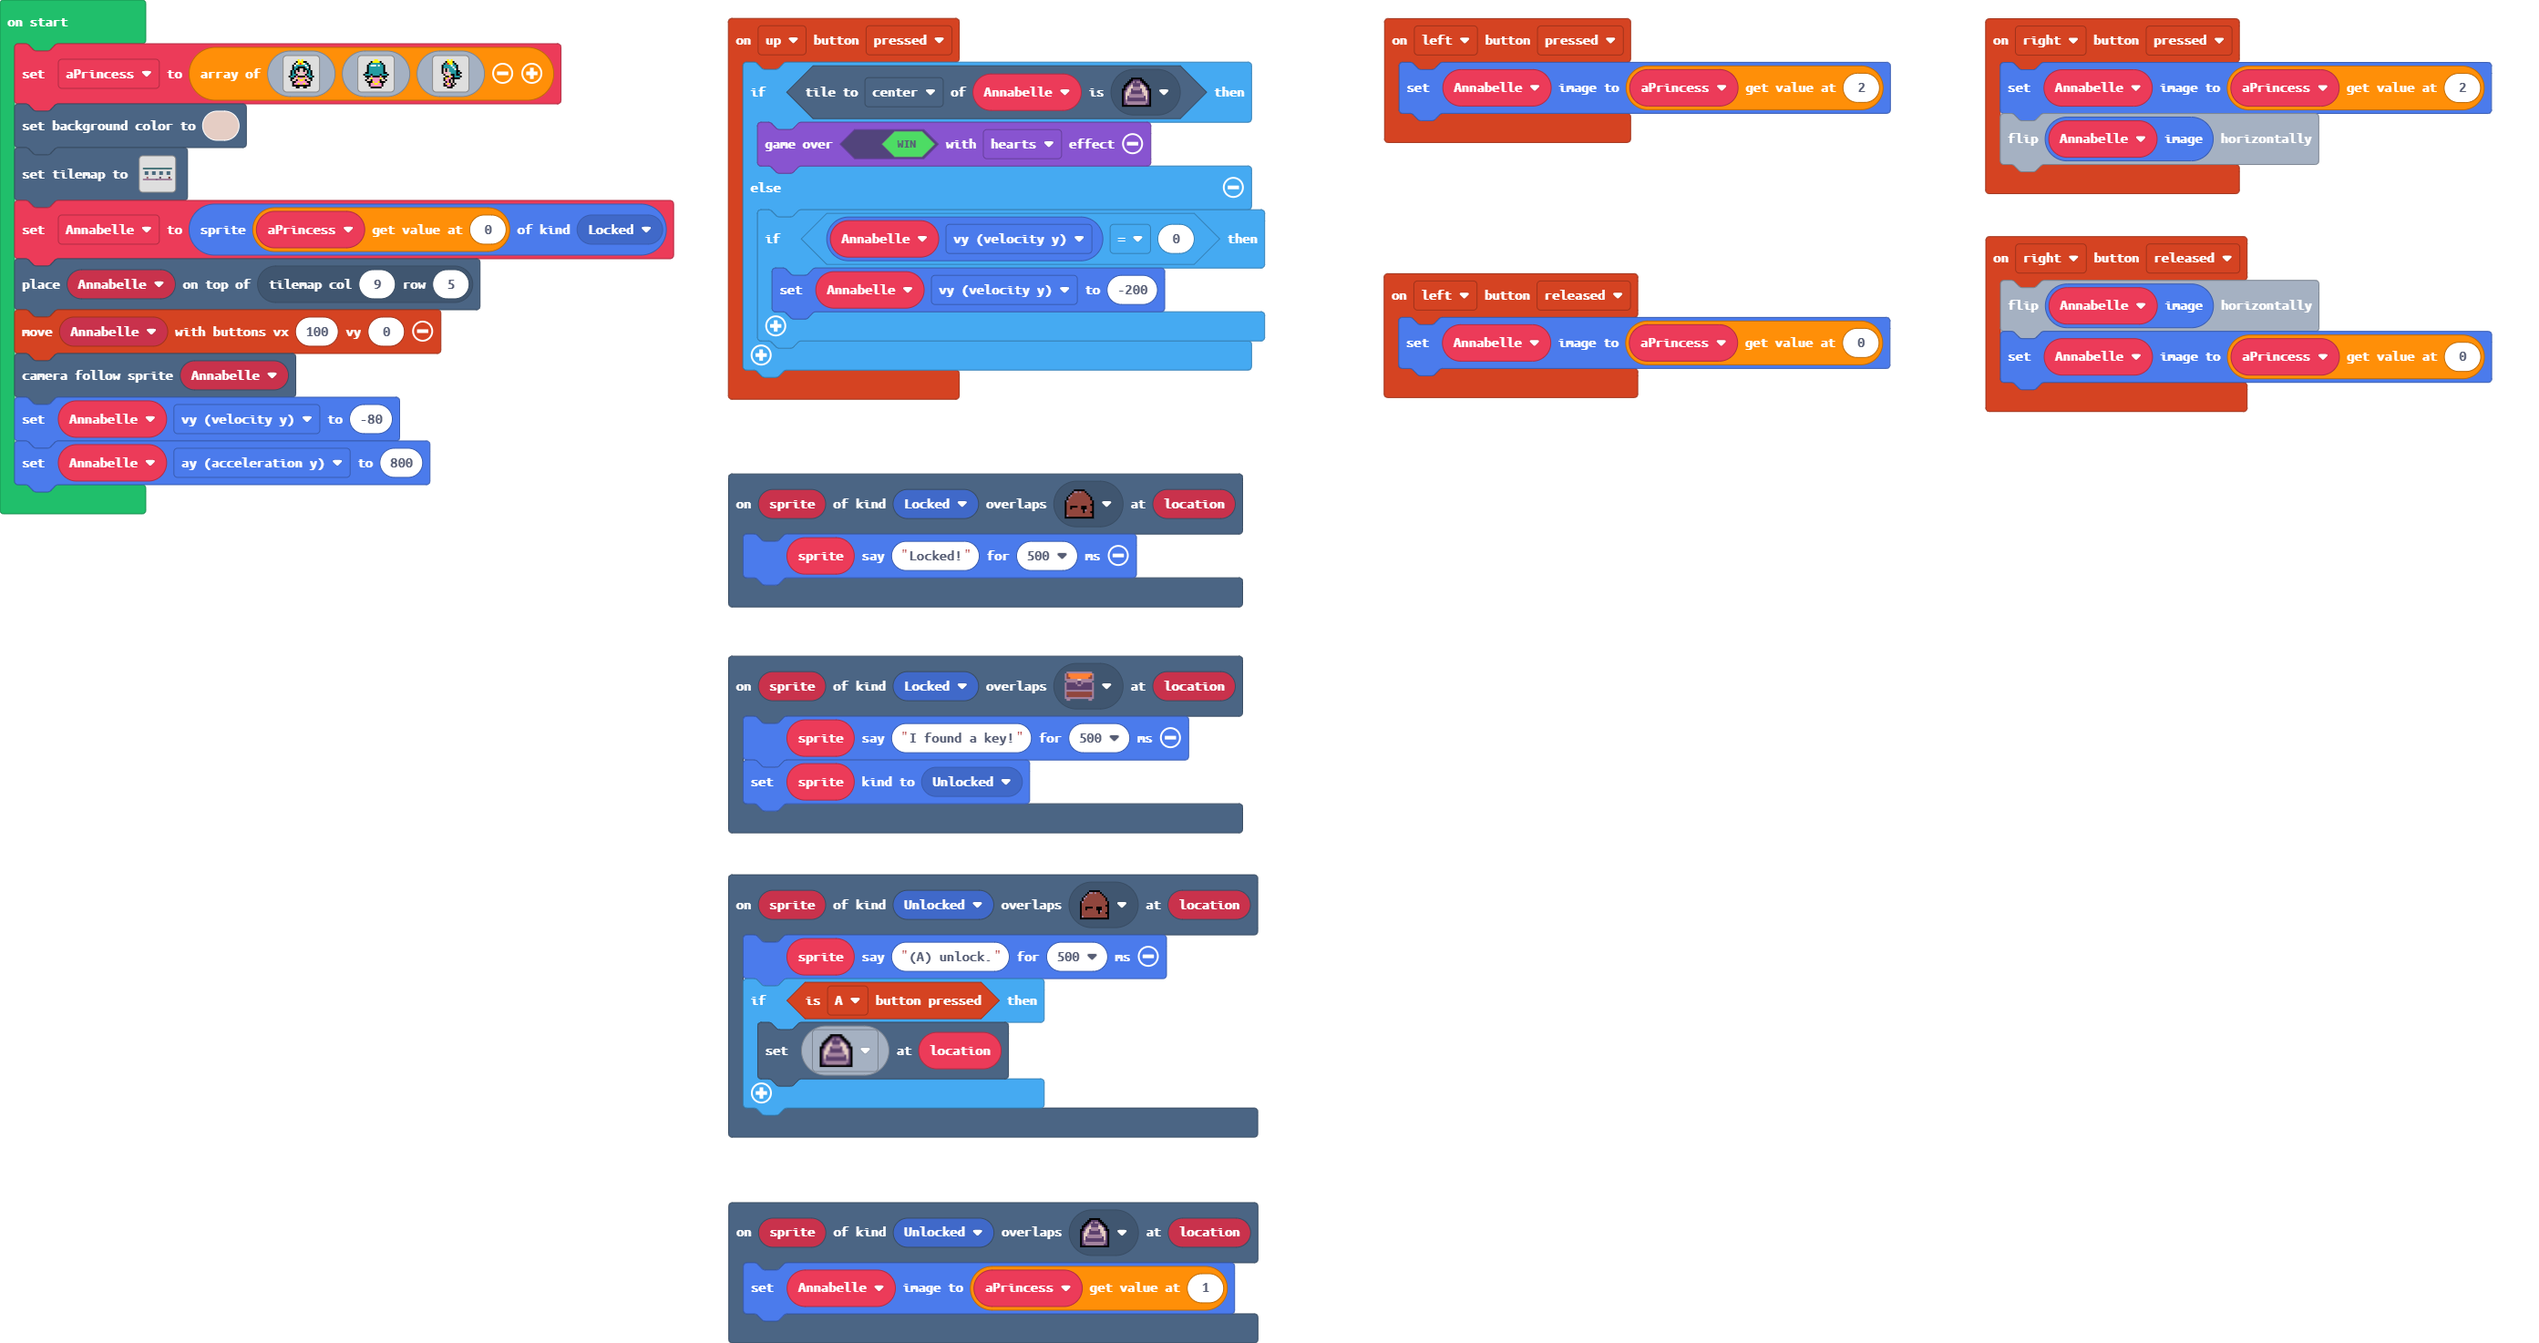
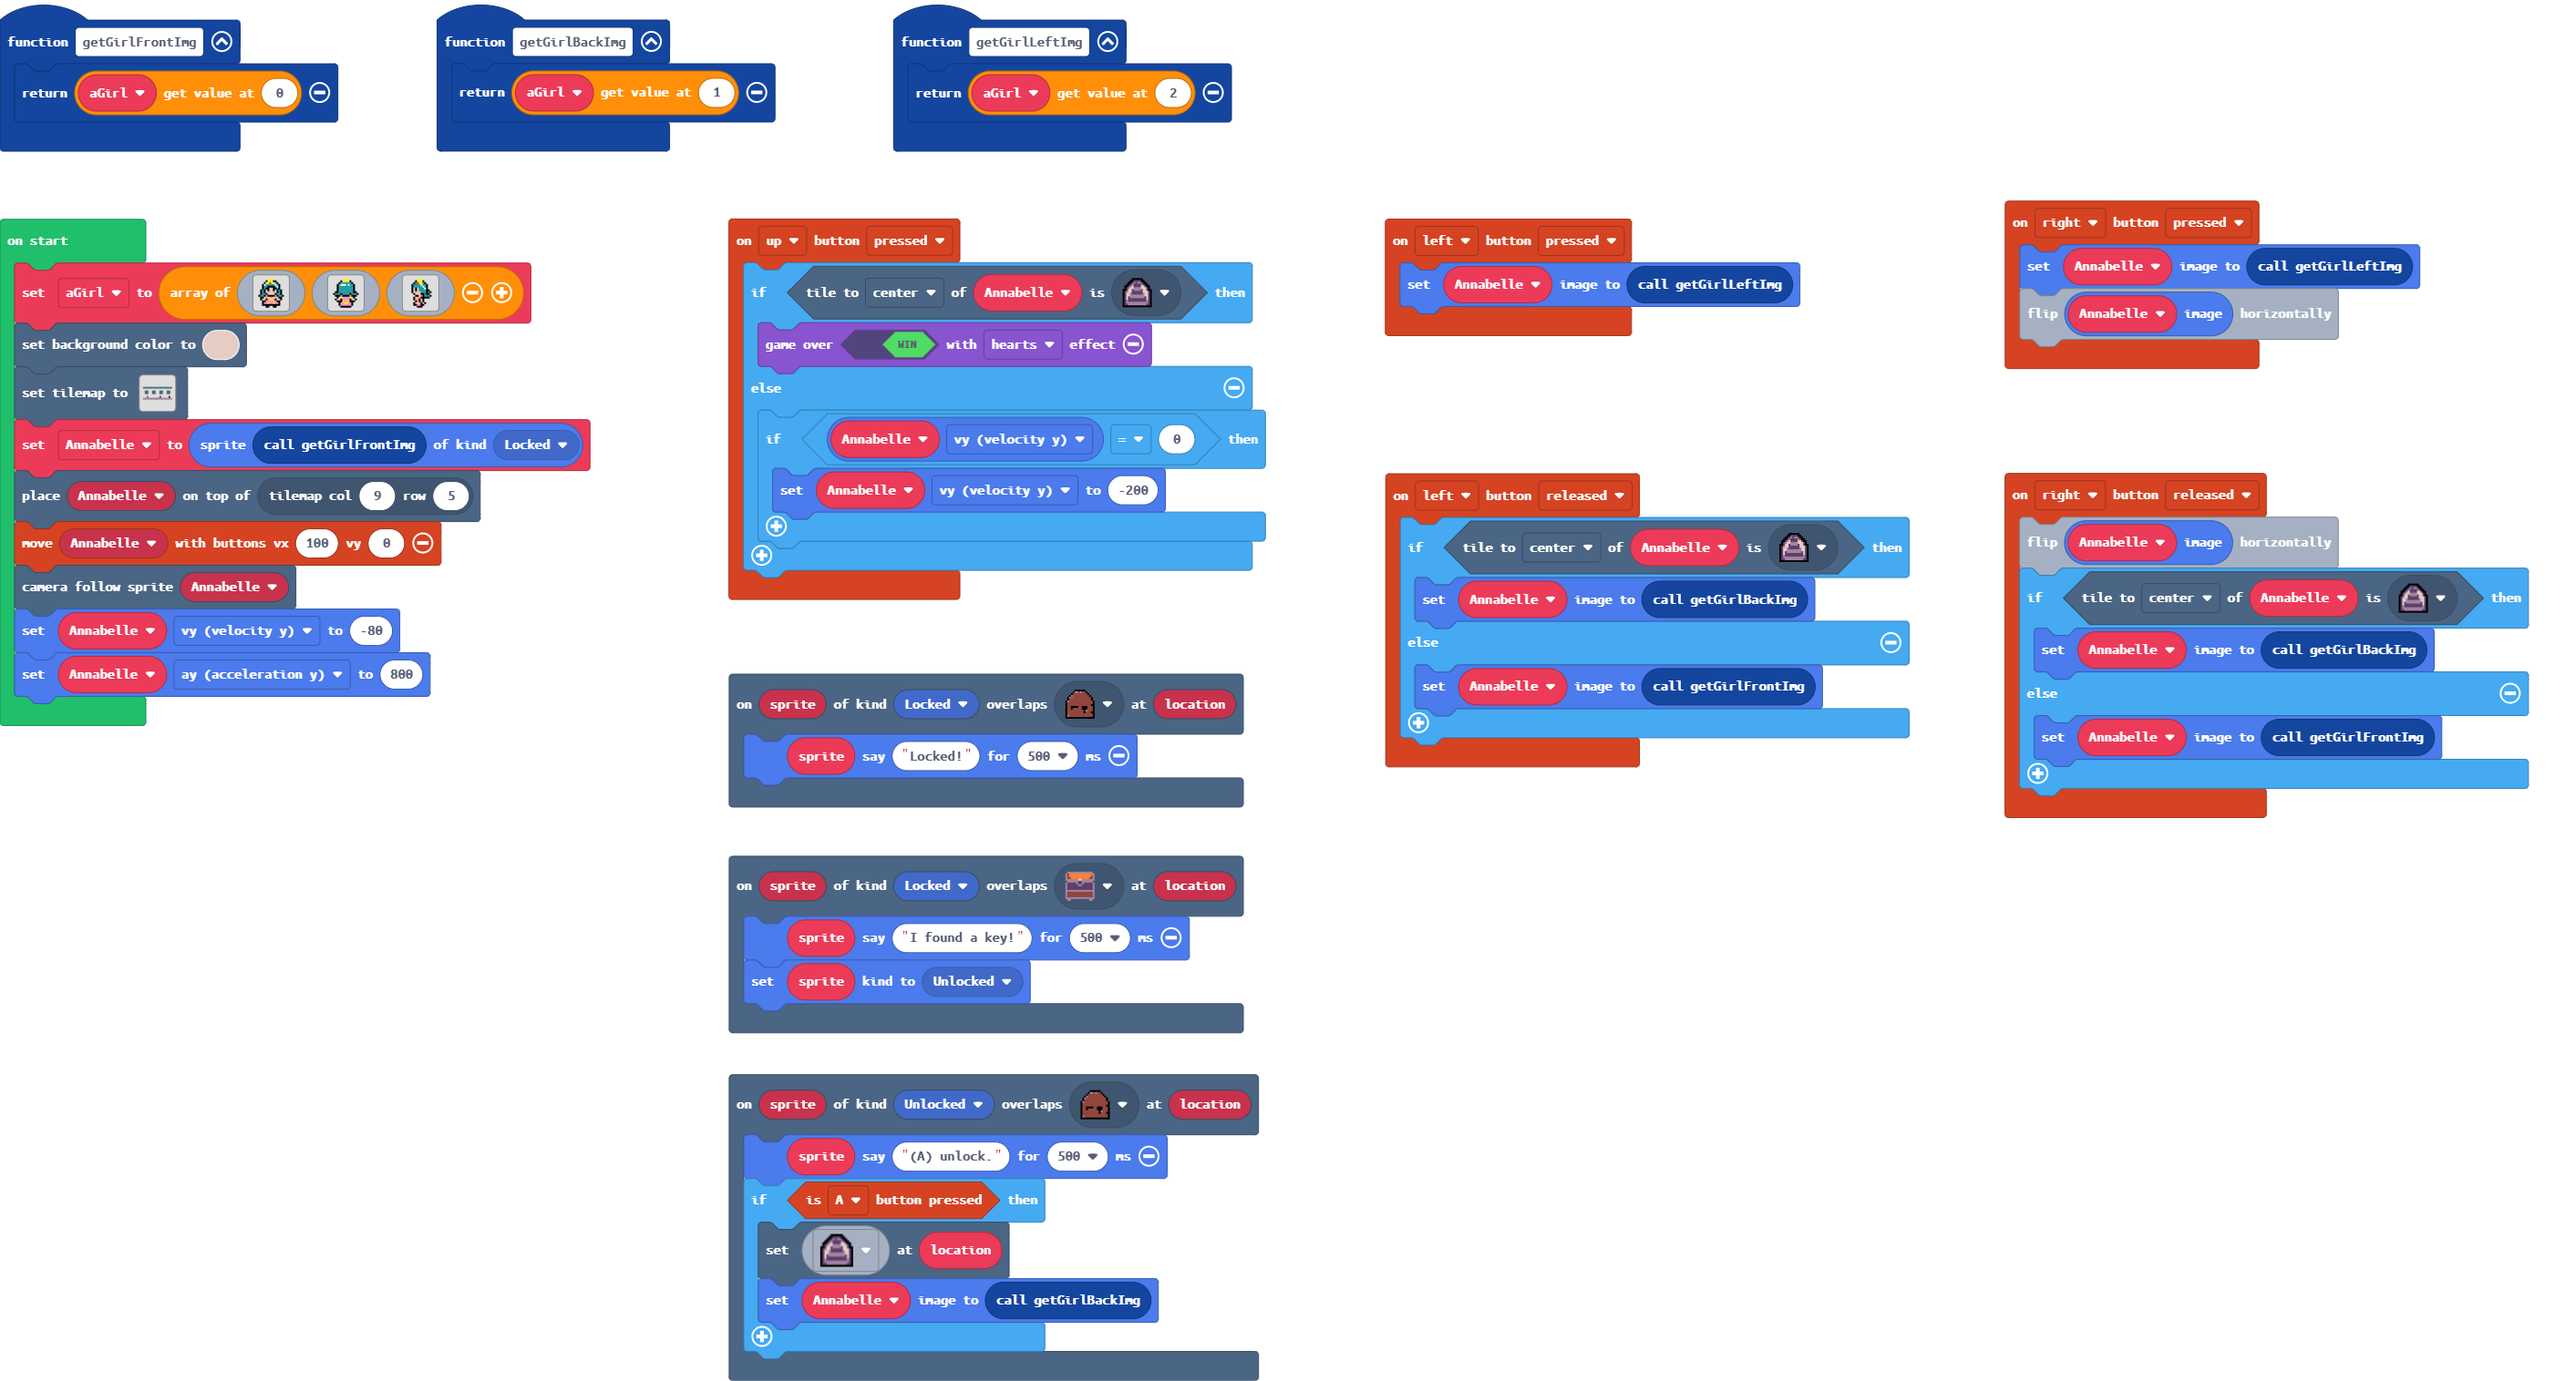
Code clean up

diff --git a/main.ts b/main.ts
@@ -11,39 +11,54 @@ controller.up.onEvent(ControllerButtonEvent.Pressed, function () {
         }
     }
 })
+function getGirlFrontImg () {
+    return aGirl[0]
+}
+function getGirlBackImg () {
+    return aGirl[1]
+}
 controller.left.onEvent(ControllerButtonEvent.Pressed, function () {
-    Annabelle.setImage(aPrincess[2])
+    Annabelle.setImage(getGirlLeftImg())
 })
 controller.right.onEvent(ControllerButtonEvent.Released, function () {
     Annabelle.image.flipX()
-    Annabelle.setImage(aPrincess[0])
+    if (Annabelle.tileKindAt(TileDirection.Center, myTiles.tile12)) {
+        Annabelle.setImage(getGirlBackImg())
+    } else {
+        Annabelle.setImage(getGirlFrontImg())
+    }
 })
 controller.left.onEvent(ControllerButtonEvent.Released, function () {
-    Annabelle.setImage(aPrincess[0])
+    if (Annabelle.tileKindAt(TileDirection.Center, myTiles.tile12)) {
+        Annabelle.setImage(getGirlBackImg())
+    } else {
+        Annabelle.setImage(getGirlFrontImg())
+    }
 })
+function getGirlLeftImg () {
+    return aGirl[2]
+}
 scene.onOverlapTile(SpriteKind.Locked, sprites.dungeon.chestOpen, function (sprite, location) {
     sprite.say("I found a key!", 500)
     sprite.setKind(SpriteKind.Unlocked)
 })
 controller.right.onEvent(ControllerButtonEvent.Pressed, function () {
-    Annabelle.setImage(aPrincess[2])
+    Annabelle.setImage(getGirlLeftImg())
     Annabelle.image.flipX()
 })
 scene.onOverlapTile(SpriteKind.Unlocked, myTiles.tile10, function (sprite, location) {
     sprite.say("(A) unlock.", 500)
     if (controller.A.isPressed()) {
         tiles.setTileAt(location, myTiles.tile12)
+        Annabelle.setImage(getGirlBackImg())
     }
 })
 scene.onOverlapTile(SpriteKind.Locked, myTiles.tile10, function (sprite, location) {
     sprite.say("Locked!", 500)
 })
-scene.onOverlapTile(SpriteKind.Unlocked, myTiles.tile12, function (sprite, location) {
-    Annabelle.setImage(aPrincess[1])
-})
 let Annabelle: Sprite = null
-let aPrincess: Image[] = []
-aPrincess = [img`
+let aGirl: Image[] = []
+aGirl = [img`
     . . . . . . 5 . 5 . . . . . . . 
     . . . . . f 5 5 5 f f . . . . . 
     . . . . f 1 5 2 5 1 6 f . . . . 
@@ -97,7 +112,7 @@ aPrincess = [img`
     `]
 scene.setBackgroundColor(13)
 tiles.setTilemap(tilemap`level`)
-Annabelle = sprites.create(aPrincess[0], SpriteKind.Locked)
+Annabelle = sprites.create(getGirlFrontImg(), SpriteKind.Locked)
 tiles.placeOnTile(Annabelle, tiles.getTileLocation(9, 5))
 controller.moveSprite(Annabelle, 100, 0)
 scene.cameraFollowSprite(Annabelle)
